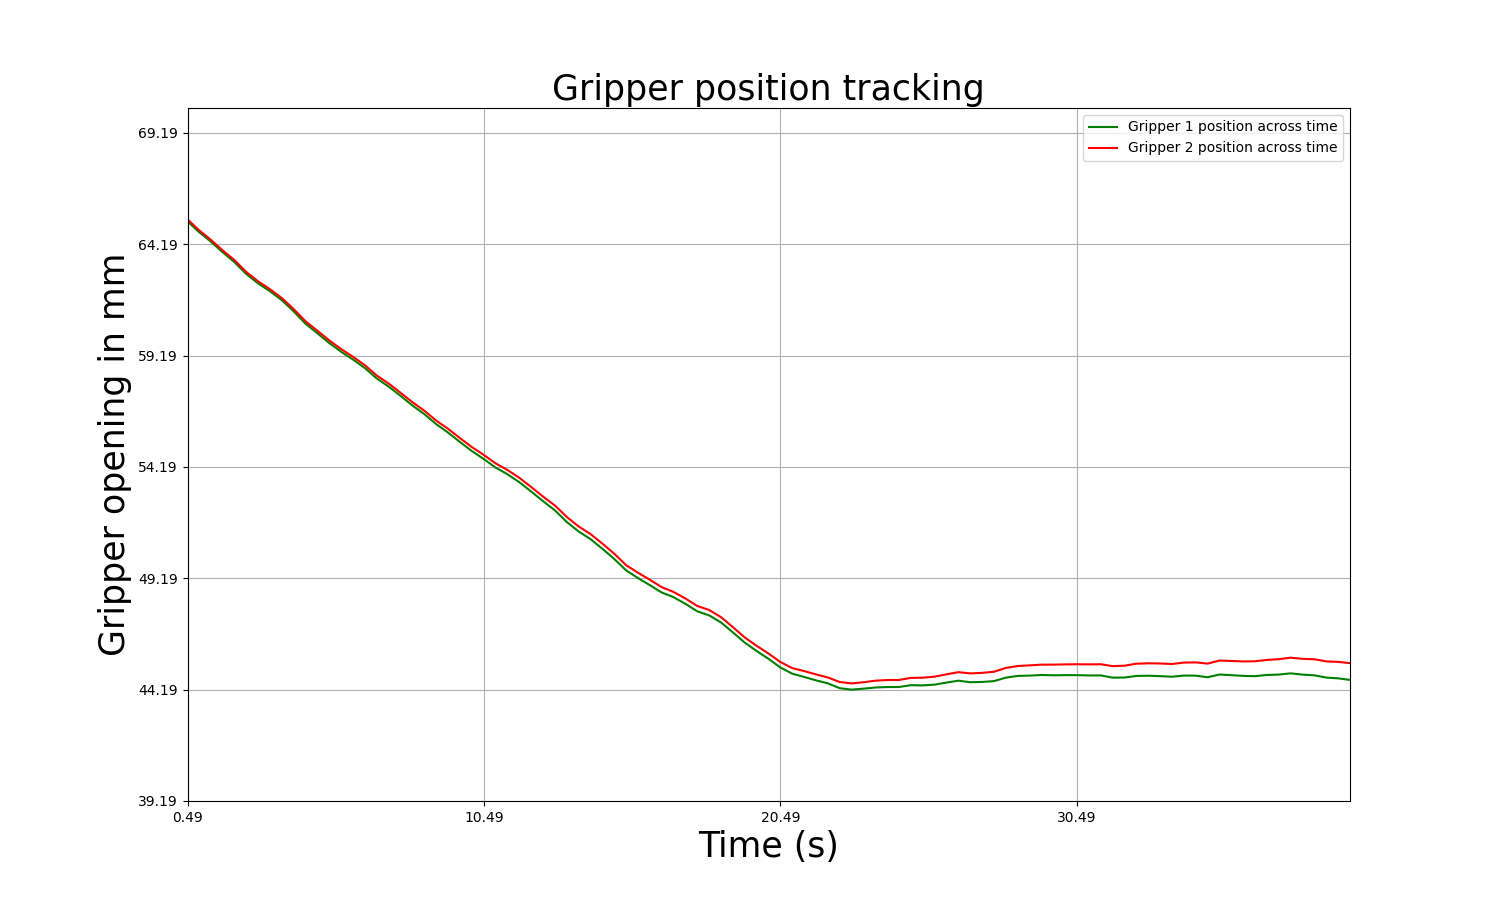
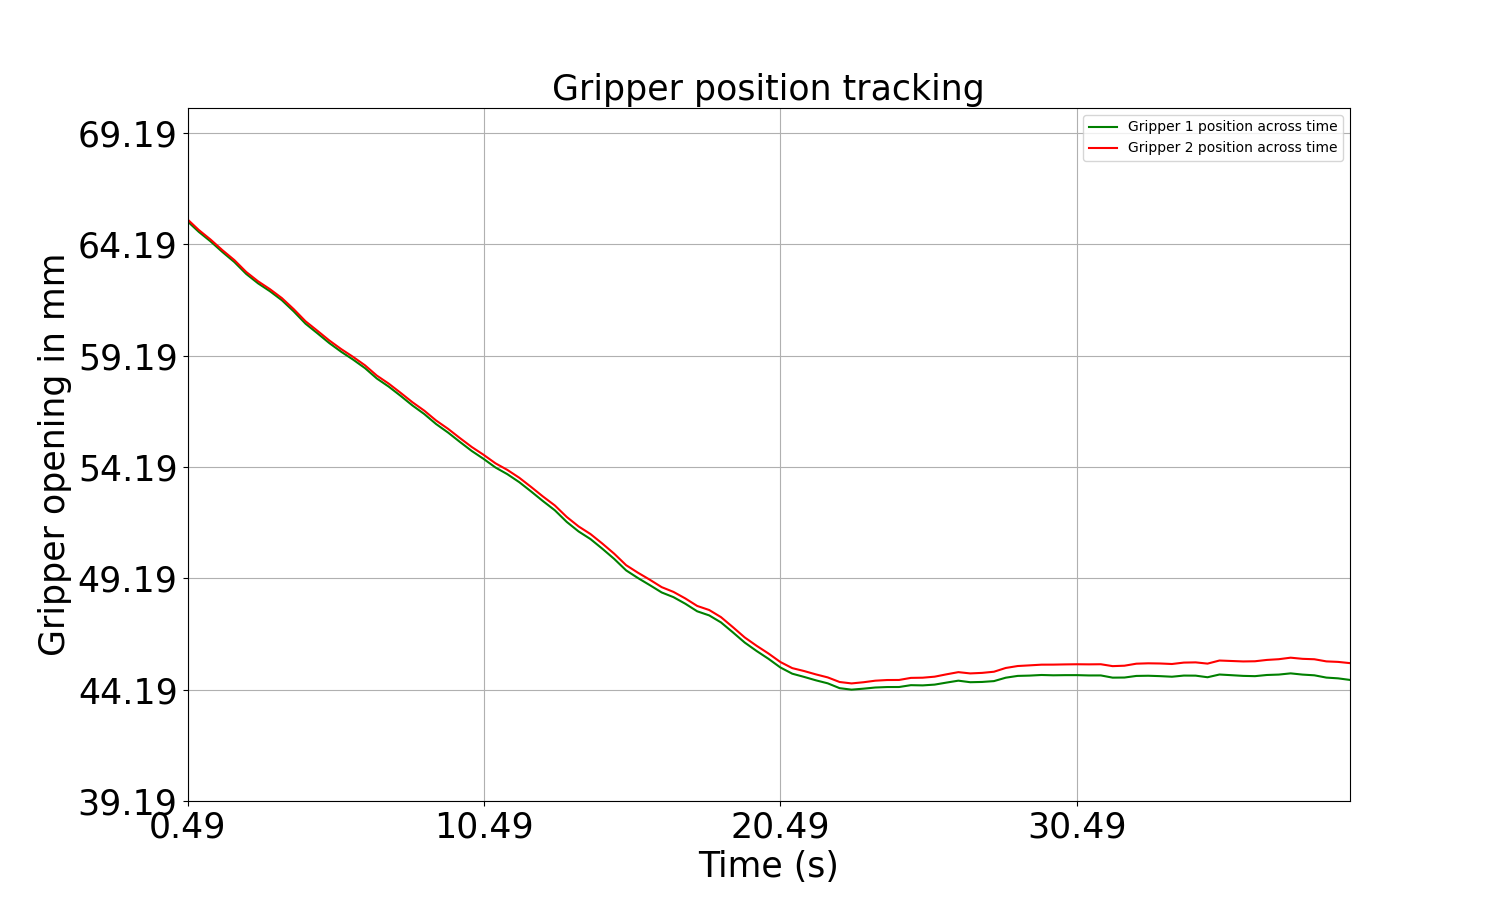
Catching up

diff --git a/scripts/mpc_trials/plot_chart.py b/scripts/mpc_trials/plot_chart.py
@@ -6,7 +6,7 @@ gripper_1_pos = []
 gripper_2_pos = []
 timestamps = []
 
-with open('./position_log.csv', 'r') as f:
+with open('./results/draft_stopper_45mm_position_log.csv', 'r') as f:
     reader = csv.reader(f)
     for row in reader:
         gripper_1_pos.append(float(row[0]))
@@ -25,13 +25,13 @@ plt.plot(timestamps, gripper_2_pos, color='r', linestyle="solid",
 y_min = min(min(gripper_1_pos), min(gripper_2_pos)) - 5
 y_max = max(max(gripper_1_pos), max(gripper_2_pos)) + 5
 plt.ylim(y_min, y_max)
-plt.yticks(np.arange(y_min, y_max + 0.1, 5))  # 0.1 to include top edge
+plt.yticks(np.arange(y_min, y_max + 0.1, 5), fontsize=25)  # 0.1 to include top edge
 
 # X-axis: keep all points, set ticks every 10
 x_min = min(timestamps)
 x_max = max(timestamps)
 plt.xlim(x_min, x_max)
-plt.xticks(np.arange(x_min, x_max + 0.1, 10))  # tick interval only
+plt.xticks(np.arange(x_min, x_max + 0.1, 10), fontsize=25)  # tick interval only
 
 plt.xlabel('Time (s)', fontsize=25)
 plt.ylabel('Gripper opening in mm', fontsize=25)

diff --git a/scripts/multi_agent_src/multi_agent_training.py b/scripts/multi_agent_src/multi_agent_training.py
@@ -290,8 +290,6 @@ def train(model, device, train_loader, optimizer, epoch):
         epoch_count += 1
 
         # show information
-        # print("Agent new 1 loss: ", F.mse_loss(output_1,y_own.float()).item())
-        # print("Agent nw 2 loss: ", F.mse_loss(output_2,y_other.float()).item())
         print("\033[92mTrain Epoch: {} [{}/{} ({:.0f}%)]\tLoss: {:.6f}\033[0m".format(
             epoch + 1, N_count, len(train_loader.dataset), 100. * (epoch_count + 1) / len(train_loader), loss.item()))
     # Return mean of losses in epoch (to match loss amount in validation)
